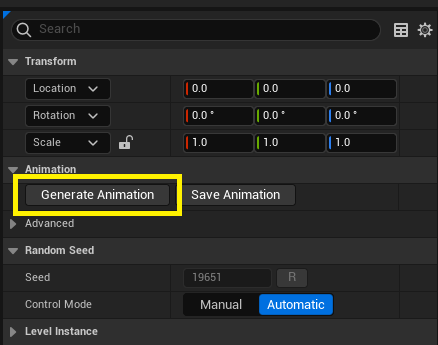
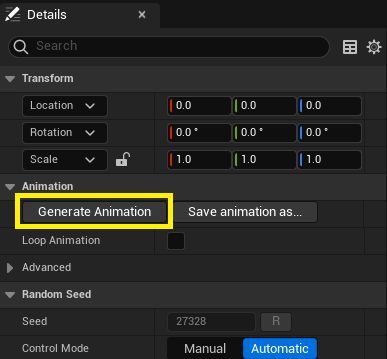
Update docs

diff --git a/docs/get-started/installing.md b/docs/get-started/installing.md
@@ -4,23 +4,24 @@ Motorica Studio currently does not follow a strict release cycle. Stay updated b
 
 ## System Requirements
 
-Unreal Engine needs to be installed to use Motorica Studio. A list of supported UE versions and target platforms is available in the [Downloads](../downloads.md) page.
+Find a list of supported Unreal Engine versions and platform in the [Downloads](../downloads.md) page.
 
-## Register at Motorica
+## Register
 
-Motorica Studio requires an account. To register, go to the [Motorica website](https://www.motorica.ai/).
+You need a Motorica account to use the plugin. Register on the [Motorica website](https://www.motorica.ai/).
 
-For your security:
+!!! tip
+    For your security:
 
-- Use a combination of **numbers**, **symbols**, and **upper and lower case letters** in your password.
-- Use a password that is **16 characters long** or more.
-- Use a **unique** password (i.e. you have not used the password anywhere else).
+    - Use a combination of **numbers**, **symbols**, and **upper and lower case letters** in your password.
+    - Use a password that is **16 characters long** or more.
+    - Use a **unique** password (i.e. you have not used the password anywhere else).
 
-## Download Motorica Studio
+## Download
 
 Go to the [Downloads](../downloads.md) page.
 
-## Install Motorica Studio
+## Install
 ### Install for All Projects
 
 1. Extract the downloaded `.zip` to Unreal Engine's installation folder.
@@ -36,10 +37,15 @@ Go to the [Downloads](../downloads.md) page.
 
 3. Enable the plugin via `Edit > Plugins > Installed | Animation > Motorica Studio`
 4. Restart the UE editor
-5. [Configure Motorica Studio](#configure-motorica-studio)
+5. This button will appear after successful installation
+
+    ![](../assets/images/ue-level-editor-toolbar-motorica-button.png)
 
 !!! note
     Each UE project has its own list of enabled plugins and plugin settings. Therefore, you must enable and configure Motorica Studio *separately* for each project.
+
+!!! warning
+    For plugin versions **0.3.0 and below**, you will need to [configure the plugin](#configure-030-and-below).
 
 ### Install for a Single Project
 
@@ -55,52 +61,54 @@ Go to the [Downloads](../downloads.md) page.
 
 3. Enable the plugin via `Edit > Plugins > Installed | Animation > Motorica Studio`
 4. Restart the UE editor
-5. [Configure Motorica Studio](#configure-motorica-studio)
-
-## Configure Motorica Studio
-
-If Motorica Studio was installed correctly, you will see this button in the level editor toolbar:
-
-![](../assets/images/ue-level-editor-toolbar-motorica-button.png)
-
-### Open Plugin Settings
-
-Open the Motorica Studio editor and press the "Settings" button in the toolbar:
-
-![](../assets/images/ms-editor-toolbar-settings-button.png)
-
-Alternatively, navigate to `Edit > Project Settings > Plugins > Motorica Studio Networking`.
-
-![](../assets/images/menu-edit-project-settings.png)
-![](../assets/images/project-settings-plugins-motorica-studio.png)
-
-### Configuration Values
-
-- **API Location** - Write `https://mogen.motorica.ai/api/v1/`.
-- **Email** - Write your Motorica account email.
-- **Password** - Write your Motorica account password.
-
-    !!! warning
-        **The password is stored in plain-text in the plugin config file** at `YourProjectRoot > Config > DefaultMotoricaStudioConfig.ini`.
-        
-        Make sure to use a **unique password**!
-
-        Make sure to **delete the config file when copying your project**!
-
-![](../assets/images/motorica-studio-settings-example.png)
-
-### Verify the Configuration
-
-Verify that you entered your information correctly by logging in from the Motorica Studio Editor:
-
-1. Open the *Motorica Studio editor*.
+5. This button will appear after successful installation
 
     ![](../assets/images/ue-level-editor-toolbar-motorica-button.png)
 
-2. Login from the *Networking* panel. 
+!!! warning
+    For plugin versions **0.3.0 and below**, you will need to [configure the plugin](#configure-030-and-below).
 
-    ![](../assets/gifs/workflow-ms-editor-login.gif)
+??? info "Configuration for versions 0.3.0 and below."
+    ## Configure (0.3.0 and below)
 
-    If you see **"Login successful!"**, then your configuration was correct.
+    **Open plugin settings**
 
-    If you see **"Login failed!"**, your configuration might be wrong. Please double-check the information in the plugin settings and try again. If the issue persists, reach out on [Discord](https://discord.com/invite/KWRqNzcjYA).
+    Open the Motorica Studio editor and press the "Settings" button in the toolbar:
+
+    ![](../assets/images/ms-editor-toolbar-settings-button.png)
+
+    Alternatively, navigate to `Edit > Project Settings > Plugins > Motorica Studio Networking`.
+
+    ![](../assets/images/menu-edit-project-settings.png)
+    ![](../assets/images/project-settings-plugins-motorica-studio.png)
+
+    **Configuration values**
+
+    - **API Location** - Write `https://mogen.motorica.ai/api/v1/`.
+    - **Email** - Write your Motorica account email.
+    - **Password** - Write your Motorica account password.
+
+        !!! warning
+            **The password is stored in plain-text in the plugin config file** at `YourProjectRoot > Config > DefaultMotoricaStudioConfig.ini`.
+            
+            Make sure to use a **unique password**!
+
+            Make sure to **delete the config file when copying your project**!
+
+    ![](../assets/images/motorica-studio-settings-example.png)
+
+    **Verify the Configuration**
+
+    Verify that you entered your information correctly by logging in from the Motorica Studio Editor:
+
+    1. Open the *Motorica Studio editor*.
+
+        ![](../assets/images/ue-level-editor-toolbar-motorica-button.png)
+
+    2. Login from the *Networking* panel. 
+
+        ![](../assets/gifs/workflow-ms-editor-login.gif)
+
+        If you see **"Login successful!"**, then your configuration was correct.
+
+        If you see **"Login failed!"**, your configuration might be wrong. Please double-check the information in the plugin settings and try again. If the issue persists, reach out on [Discord](https://discord.com/invite/KWRqNzcjYA).

diff --git a/docs/get-started/create-animations.md b/docs/get-started/create-animations.md
@@ -11,15 +11,23 @@ Currently, animations can be generated only in Motorica Studio Editor. This sect
 
     ![](../assets/images/ms-editor-toolbar-editor-mode-preset.png)
 
-2. Choose a preset type in the *Preset Controls* panel and configure its parameters.
+1. Choose a preset type in the *Preset Controls* panel and configure its parameters.
 
     ![](../assets/images/ms-editor-preset-controls-panel-configured.png)
 
-3. Select one or more styles in the *Style Browser*.
+1. Select one or more styles in the *Style Browser*.
 
     ![](../assets/images/ms-editor-style-browser-selected-style-with-style-mixer.png)
 
-4. Press *Generate Animation*.
+1. Optionally toggle *Looping*.
+
+    ![](../assets/images/ms-editor-loop-animation-toggle.png)
+
+    !!! tip
+
+        Looping works best when animations have constant speed. Avoid accelerating / decelerating motion at the edges of the animation.
+
+1. Press *Generate Animation*.
 
     ![](../assets/images/ms-editor-generate-animation-button.png)
 
@@ -31,7 +39,7 @@ Currently, animations can be generated only in Motorica Studio Editor. This sect
 
     ![](../assets/images/ms-editor-timeline-animation-track-with-animation.png)
 
-5. [Preview your animation.](#preview-generated-animation)
+1. [Preview your animation.](#preview-generated-animation)
 
 ## Create Animation for Custom Path
 
@@ -39,19 +47,19 @@ Currently, animations can be generated only in Motorica Studio Editor. This sect
 
     ![](../assets/images/ms-editor-toolbar-editor-mode-keyframe.png)
 
-2. Add a *Locomotion Actor* to the scene.
+1. Add a *Locomotion Actor* to the scene.
 
     ![](../assets/images/ms-editor-toolbar-add-actor-button.png)
 
-3. Select the Actor by left-clicking it in the viewport.
+1. Select the Actor by left-clicking it in the viewport.
 
     ![](../assets/images/ms-editor-viewport-with-character-tpose.png)
 
-4. Set the current frame in the *Timeline* to `0`.
+1. Set the current frame in the *Timeline* to `0`.
 
     ![](../assets/images/ms-editor-timeline-scrubber-at-zero.png)
 
-5. Move and rotate the Actor using the viewport gizmo.
+1. Move and rotate the Actor using the viewport gizmo.
     
     ![](../assets/images/ms-editor-viewport-gizmo.png)
 
@@ -62,7 +70,7 @@ Currently, animations can be generated only in Motorica Studio Editor. This sect
         - the channel value in *Sequencer Curves*
         - the channel value in the *Details* panel under "Transform", as long as the *Actor* is selected
         
-6. Set the keyframe for *Location* and *Rotation* channels.
+1. Set the keyframe for *Location* and *Rotation* channels.
 
     ![](../assets/images/ms-editor-timeline-add-keyframe.png)
 
@@ -73,19 +81,27 @@ Currently, animations can be generated only in Motorica Studio Editor. This sect
 
         ![](../assets/images/ms-editor-timeline-autokey-button.png)
 
-7. Move the scrubber in the *Timeline* to another frame.
+1. Move the scrubber in the *Timeline* to another frame.
 
     ![](../assets/images/ms-editor-timeline-scrubber-at-two-with-key.png)
 
-8. Repeat steps 4 to 6 until you are ready with your path.
+1. Repeat steps 4 to 6 until you are ready with your path.
 
     ![](../assets/images/ms-editor-timeline-filled-with-curve-editor.png)
 
-9. Select one or more styles in the *Style Browser*.
+1. Select one or more styles in the *Style Browser*.
 
     ![](../assets/images/ms-editor-style-browser-selected-style-with-style-mixer.png)
 
-10. Press *Generate Animation*.
+1. Optionally toggle *Looping*.
+
+    ![](../assets/images/ms-editor-loop-animation-toggle.png)
+
+    !!! tip
+
+        Looping works best when animations have constant speed. Avoid accelerating / decelerating motion at the edges of the animation.
+
+1. Press *Generate Animation*.
 
     ![](../assets/images/ms-editor-generate-animation-button.png)
 
@@ -97,7 +113,7 @@ Currently, animations can be generated only in Motorica Studio Editor. This sect
 
     ![](../assets/images/ms-editor-timeline-animation-track-with-animation.png)
 
-11. [Preview your animation.](#preview-generated-animation)
+1. [Preview your animation.](#preview-generated-animation)
 
 ## Preview Generated Animation
 

diff --git a/docs/get-started/index.md b/docs/get-started/index.md
@@ -1,8 +1,5 @@
 # Introduction
 
-!!! note
-    We've updated our page, you can still find our web-based [Style Viewer](http://mogen.motorica.ai).
-
 ## About
 
 Motorica Studio is an Unreal Engine 5+ plugin that integrates Motorica's animation generation and editing tools inside Unreal Engine. The plugin is precompiled and added to your UE project or folder.
@@ -12,7 +9,11 @@ Motorica Studio is an Unreal Engine 5+ plugin that integrates Motorica's animati
 
 ## Discord Community and Help
 
-We have a growing [Discord](https://discord.com/invite/KWRqNzcjYA) community of enthusiastic members (over 3k!) with whom you can chat. The Motorica team is also present, so you can contact them directly if you want to ask **questions**, share **feedback** or report any **issues**.
+We have a growing [Discord](https://discord.com/invite/KWRqNzcjYA) community of enthusiastic members (over 3k!) with whom you can chat. The Motorica team is also present, so you can contact them directly if you want to:
+
+- ask **questions**
+- share **feedback**
+- report **issues**
 
 This button in Motorica Studio will take you there:
 
@@ -25,7 +26,6 @@ Get started with Motorica Studio by first setting up the plugin:
 - [Register](installing.md#register-at-motorica) at Motorica
 - [Download](installing.md#download-motorica-studio) Motorica Studio
 - [Install](installing.md#install-guides) Motorica Studio
-- [Configure](installing.md#configure-motorica-studio) Motorica Studio
 
 Other Guides:
 

diff --git a/docs/index.md b/docs/index.md
@@ -1,4 +1,6 @@
-# Overview
+# Home
+
+<!-- Announcement block
 
 <div markdown>
 <hr style="border-width: 0.5em; border-color: #333333;">
@@ -12,11 +14,13 @@
 <hr style="border-width: 0.5em; border-color: #333333;">
 </div>
 
-Welcome to the Motorica's documentation website!
+-->
 
-[:simple-unrealengine: Download UE Plugin](downloads.md){ .md-button .md-button--primary } [:material-monitor-shimmer: Online Style Viewer](https://mogen.motorica.ai/){ .md-button }
+Welcome to the Motorica's documentation!
 
-To get started with *Motorica Studio* for Unreal Engine 5, visit the [Installation](get-started/index.md) page .
+[:simple-unrealengine: Download UE Plugin](downloads.md#motorica-studio-ue-plugin){ .md-button .md-button--primary } [:material-monitor-shimmer: Online Style Viewer](https://mogen.motorica.ai/){ .md-button }
+
+[Click here](get-started/index.md) to get started with Motorica Studio for Unreal Engine 5.
 
 ### Other Software Guides
 

diff --git a/docs/get-started/ui-motorica-studio-editor.md b/docs/get-started/ui-motorica-studio-editor.md
@@ -16,7 +16,7 @@ You can also open the window via `Window > Motorica Editor` from the main window
 
 ## Login to Motorica
 
-Motorica Studio requires an internet connection. Make sure that you have [configured Motorica Studio](installing.md#configure-motorica-studio) correctly and login via the *Networking* panel:
+Motorica Studio requires an internet connection.  You can login via the *Networking* panel:
 
 ![](../assets/gifs/workflow-ms-editor-login.gif)
 

diff --git a/docs/dev/test.md b/docs/dev/test.md
@@ -1,3 +1,3 @@
 # Test page
 
-This is a test page. Go to [Dev page](../)
+This is a test page. Go to [Dev page](../index.md)
